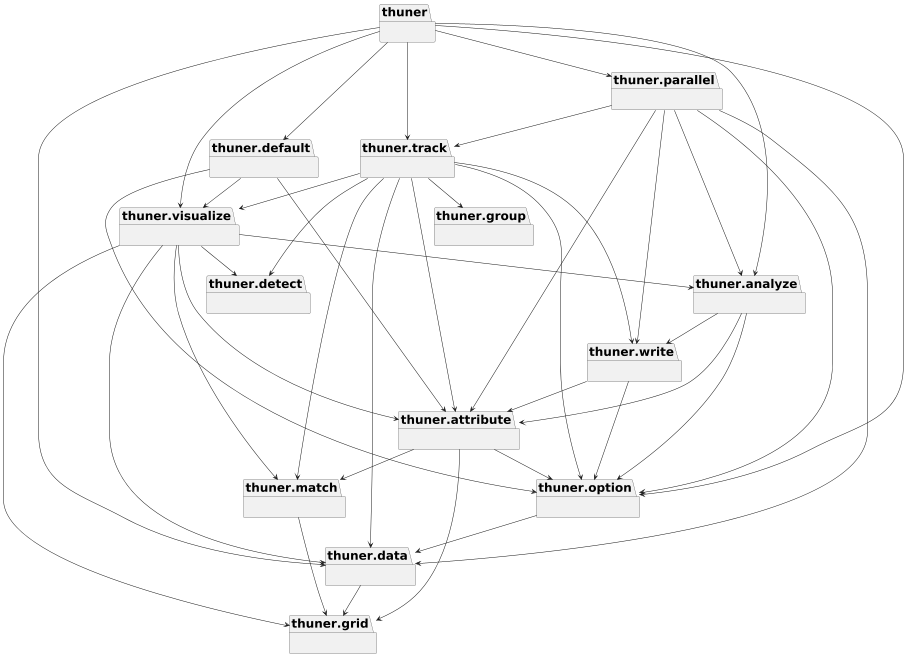
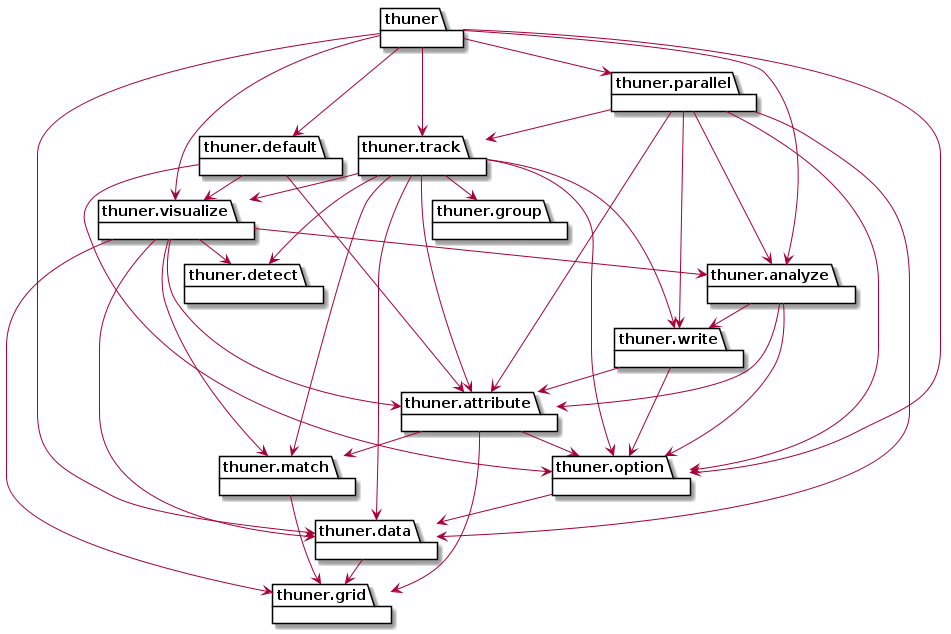
amend docs

diff --git a/docs/source/images/uml/edit_puml.py b/docs/source/images/uml/edit_puml.py
@@ -1,4 +1,47 @@
+import re
+
+
+def contains_name_arrow_name(text):
+    """Check if the string contains the pattern <name> --> <name>."""
+    pattern = r"([a-zA-Z0-9_.]+) --> \1\n"
+    return bool(re.search(pattern, text))
+
+
+def replace_module_with_subpackage(text):
+    """Replace strings of the form thuner.subpackage.module with thuner.subpackage."""
+    pattern = r"(\bthuner\.[a-zA-Z0-9_]+)\.[a-zA-Z0-9_]+\b"
+    replacement = r"\1"
+    return re.sub(pattern, replacement, text)
+
+
 filepath = "./packages.puml"
 with open(filepath, "r") as file:
-    data = file.readlines()
-    print(data)
+    lines = file.readlines()
+
+# Exclude private modules
+excluded_names = ["thuner.test", "thuner.log", "thuner.config", "thuner.utils"]
+
+new_lines = []
+for line in lines:
+    new_line = replace_module_with_subpackage(line)
+    cond = new_line != "}\n" and not contains_name_arrow_name(new_line)
+    cond = (new_line not in new_lines) and cond
+    cond = cond & all(name not in new_line for name in excluded_names)
+    if cond:
+        new_lines.append(new_line)
+        if new_line[-2:] == "{\n":
+            new_lines.append("}\n")
+
+style_text = """scale 0.5
+<style>
+package {
+    FontSize 26
+}
+</style>
+"""
+
+new_lines.insert(2, style_text)
+# Write new_lines to file
+filepath = "./edited_packages.puml"
+with open(filepath, "w") as file:
+    file.writelines(new_lines)

diff --git a/README.rst b/README.rst
@@ -36,25 +36,25 @@ Installation
 The `THUNER repository <https://github.com/THUNER-project/THUNER>`__ can be cloned from 
 GitHub in the usual ways. Cloning the repository is the easiest way to access the demo, 
 workflow and gallery folders. After cloning, a new conda environment using 
-`environment.yml`, then run `pip install .` from the THUNER root directory.
+``environment.yml``, then run ``pip install .`` from the THUNER root directory.
 
-Alternatively, THUNER can be installed using `conda`, ideally into a new environment:
+Alternatively, THUNER can be installed using ``conda``, ideally into a new environment:
 
-.. code:: sh
+.. code-block:: console
 
-   conda install -c conda-forge thuner
+   (THUNER) $ conda install -c conda-forge thuner
 
-While `conda` installation is preferred, `pip` may also be used. First install the `esmpy` 
-package manually as detailed
+While ``conda`` installation is preferred, ``pip`` may also be used. First install the 
+``esmpy`` package manually as detailed
 `here <https://xesmf.readthedocs.io/en/latest/installation.html#notes-about-esmpy>`__.
 THUNER can then be installed using
 
-.. code:: sh
+.. code-block:: console
 
-   pip install thuner
+   (THUNER) $ pip install thuner
 
-Note that THUNER depends on `xesmf` for regridding, and is therefore currently only
-available on Linux and OSX systems.
+Because THUNER depends on ``xesmf`` for regridding it is currently only supported on
+Unix systems.
 
 Examples
 --------

diff --git a/docs/source/usage.rst b/docs/source/usage.rst
@@ -7,16 +7,16 @@ Installation
 The `THUNER repository <https://github.com/THUNER-project/THUNER>`__ can be cloned from 
 GitHub in the usual ways. Cloning the repository is the easiest way to access the demo, 
 workflow and gallery folders. After cloning, a new conda environment using 
-`environment.yml`, then run `pip install .` from the THUNER root directory.
+``environment.yml``, then run ``pip install .`` from the THUNER root directory.
 
-Alternatively, THUNER can be installed using `conda`, ideally into a new environment:
+Alternatively, THUNER can be installed using ``conda``, ideally into a new environment:
 
 .. code-block:: console
 
    (THUNER) $ conda install -c conda-forge thuner
 
-While `conda` installation is preferred, `pip` may also be used. First install the `esmpy` 
-package manually as detailed
+While ``conda`` installation is preferred, ``pip`` may also be used. First install the 
+``esmpy`` package manually as detailed
 `here <https://xesmf.readthedocs.io/en/latest/installation.html#notes-about-esmpy>`__.
 THUNER can then be installed using
 
@@ -24,8 +24,8 @@ THUNER can then be installed using
 
    (THUNER) $ pip install thuner
 
-Note that THUNER depends on `xesmf`` for regridding, and is therefore currently only
-available on Linux and OSX systems.
+Because THUNER depends on ``xesmf`` for regridding it is currently only supported on
+Unix systems.
 
 Tracking
 --------

diff --git a/docs/source/design.rst b/docs/source/design.rst
@@ -3,3 +3,5 @@ Design
 
 .. figure:: ./images/uml/packages.png
    :alt: Packages
+
+   Subpackages and modules in ``thuner``, and their import relationships.

diff --git a/docs/source/api.rst b/docs/source/api.rst
@@ -1,5 +1,5 @@
 API
-===
+============
 
 thuner.track.track
 ---------------------
